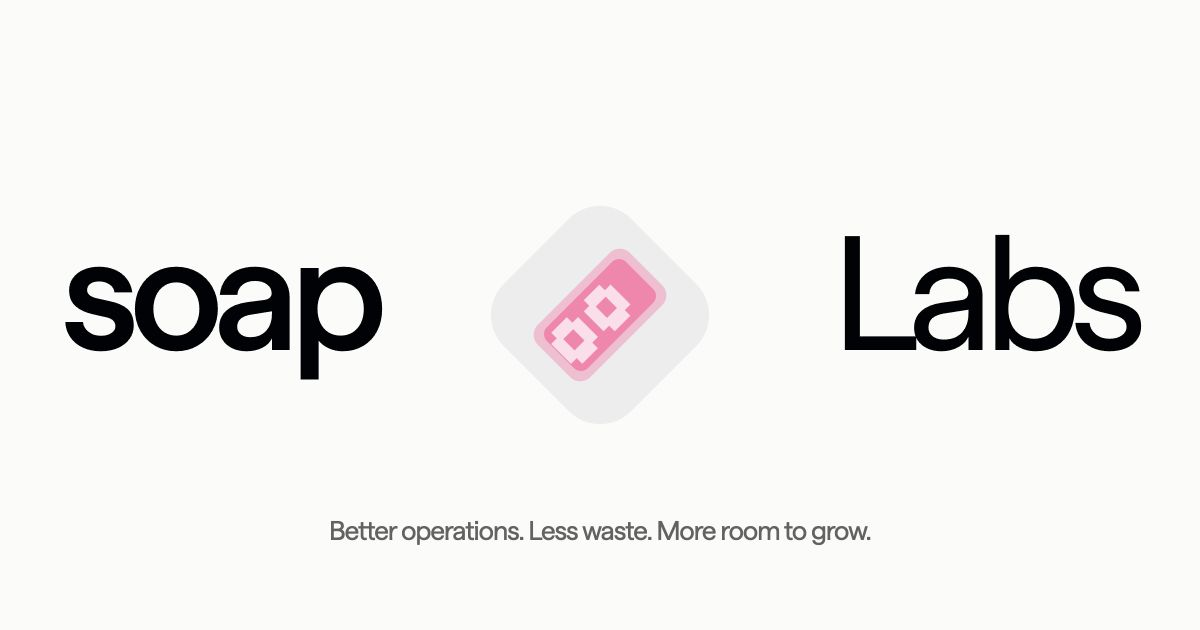
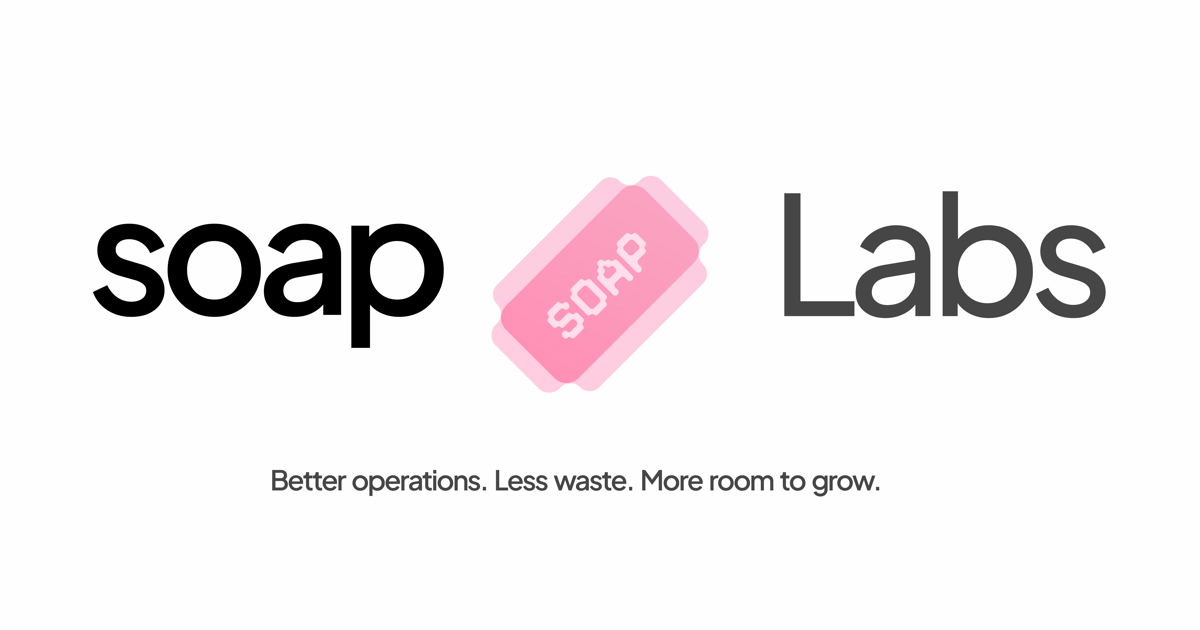
Use final branded share preview

diff --git a/index.html b/index.html
@@ -4,12 +4,12 @@
     <meta charset="UTF-8" />
     <meta name="viewport" content="width=device-width, initial-scale=1.0" />
     <meta name="theme-color" content="#fbfbfa" />
-    <meta name="description" content="Soap Labs finds operational drag and frees up the cash, time, and capacity your business needs to move faster." />
+    <meta name="description" content="We find where businesses lose time and money, then build the systems that recover margin, create capacity, and make growth easier." />
     <link rel="canonical" href="https://soaplabs2.vercel.app/" />
     <meta property="og:type" content="website" />
     <meta property="og:site_name" content="Soap Labs" />
-    <meta property="og:title" content="Soap Labs | Better Operations" />
-    <meta property="og:description" content="Less waste. Better systems. More room to grow." />
+    <meta property="og:title" content="Soap Labs · Better operations. Less waste. More room to grow." />
+    <meta property="og:description" content="We find where businesses lose time and money, then build the systems that recover margin, create capacity, and make growth easier." />
     <meta property="og:url" content="https://soaplabs2.vercel.app/" />
     <meta property="og:image" content="https://soaplabs2.vercel.app/images/soap-labs-share.png" />
     <meta property="og:image:width" content="1200" />
@@ -17,8 +17,8 @@
     <meta property="og:image:type" content="image/png" />
     <meta property="og:image:alt" content="Soap Labs" />
     <meta name="twitter:card" content="summary_large_image" />
-    <meta name="twitter:title" content="Soap Labs | Better Operations" />
-    <meta name="twitter:description" content="Less waste. Better systems. More room to grow." />
+    <meta name="twitter:title" content="Soap Labs · Better operations. Less waste. More room to grow." />
+    <meta name="twitter:description" content="We find where businesses lose time and money, then build the systems that recover margin, create capacity, and make growth easier." />
     <meta name="twitter:image" content="https://soaplabs2.vercel.app/images/soap-labs-share.png" />
     <link rel="icon" href="/favicon.svg" type="image/svg+xml" />
     <link rel="icon" href="/favicon.ico" sizes="any" />
